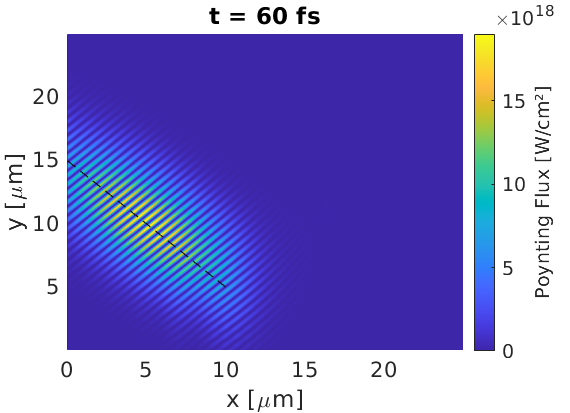
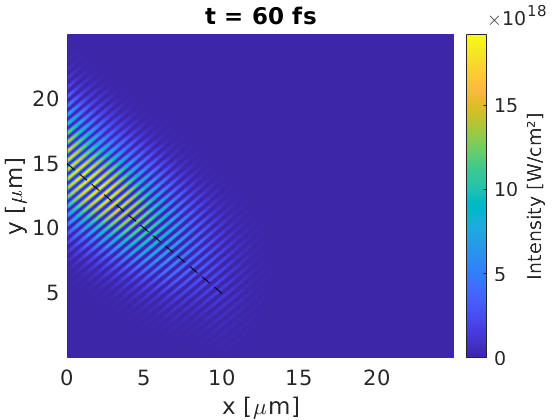
Fixed typo in angled laser demo

Changed region(s): [[0.0, 0.0581, 0.9714, 1.0], [0.3643, 0.0, 0.5768, 0.0872], [0.8804, 0.0, 0.9714, 0.0581]]

diff --git a/content/quickstart/basic_examples/laser.md b/content/quickstart/basic_examples/laser.md
@@ -175,9 +175,9 @@ enters the simulation. In the previous example, we set this to the half-time at
 10% maximum, such that the laser started at 10% of its maximum intensity and 
 then increased to full. In a rotated laser, the wave-front corresponding to
 the peak intensity arrives earlier on one of the laser edges than the other. Let
-us set the injection time such that this "early edge" starts at 10% of the
+us set the injection time such that this "early edge" starts at 1% of the
 maximum intensity. We will define the $y$ position of this "early edge" to be
-the half-width at 10% maximum for the spatial profile. This way, we will
+the half-width at 1% maximum for the spatial profile. This way, we will
 sufficiently model the full envelope, regardless of the injection angle.
 
 Here we provide an input deck which specifies a point on the laser path, and an
@@ -221,12 +221,12 @@ begin:constant
   y_rot = y*cos(las_theta)
   y0_rot = y0*cos(las_theta)
   w_y = y_fwhm / sqrt(2*loge(2))
-  y_hw01m = 0.5 * y_fwhm * sqrt(loge(10)/loge(2))
+  y_hw001m = 0.5 * y_fwhm * sqrt(loge(100)/loge(2)) # Half-width 1% max
   
   w_t = t_fwhm / sqrt(2*loge(2))
-  t_hw01m = 0.5 * t_fwhm * sqrt(loge(10)/loge(2))
-  t_rot = time - (y-y0_rot)*sin(las_theta)/c
-  t_hw01m_rot = t_hw01m + abs(y_hw01m * sin(las_theta) / c)
+  t_hw001m = 0.5 * t_fwhm * sqrt(loge(100)/loge(2)) # Half-width 1% max
+  t_rot = time - (y-y0)*sin(las_theta)/c
+  t_hw001m_rot = t_hw001m + abs(y_hw001m * sin(las_theta) / c)
   
   I_peak_rot = I_peak_Wcm2 * cos(las_theta)
 end:constant
@@ -235,7 +235,7 @@ begin:laser
   boundary = x_min
   intensity_w_cm2 = I_peak_rot
   lambda = las_lambda
-  profile = gauss(y_rot, y0_rot, w_y) * gauss(t_rot, t_hw01m_rot, w_t)
+  profile = gauss(y_rot, y0_rot, w_y) * gauss(t_rot, t_hw001m_rot, w_t)
   phase = -2 * pi * (y-y0_rot) * sin(las_theta) / las_lambda
 end:laser
 
